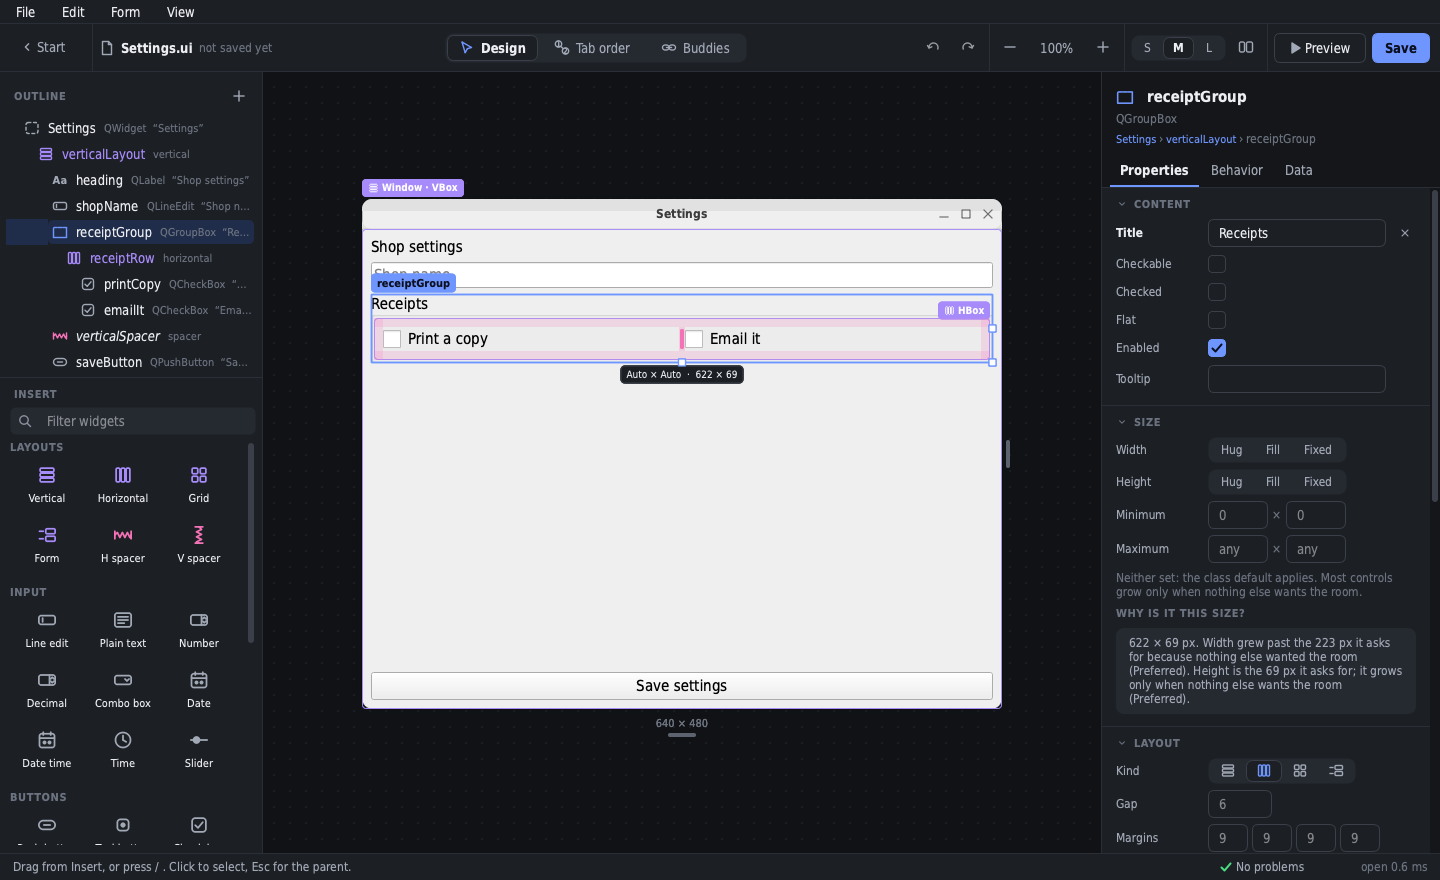
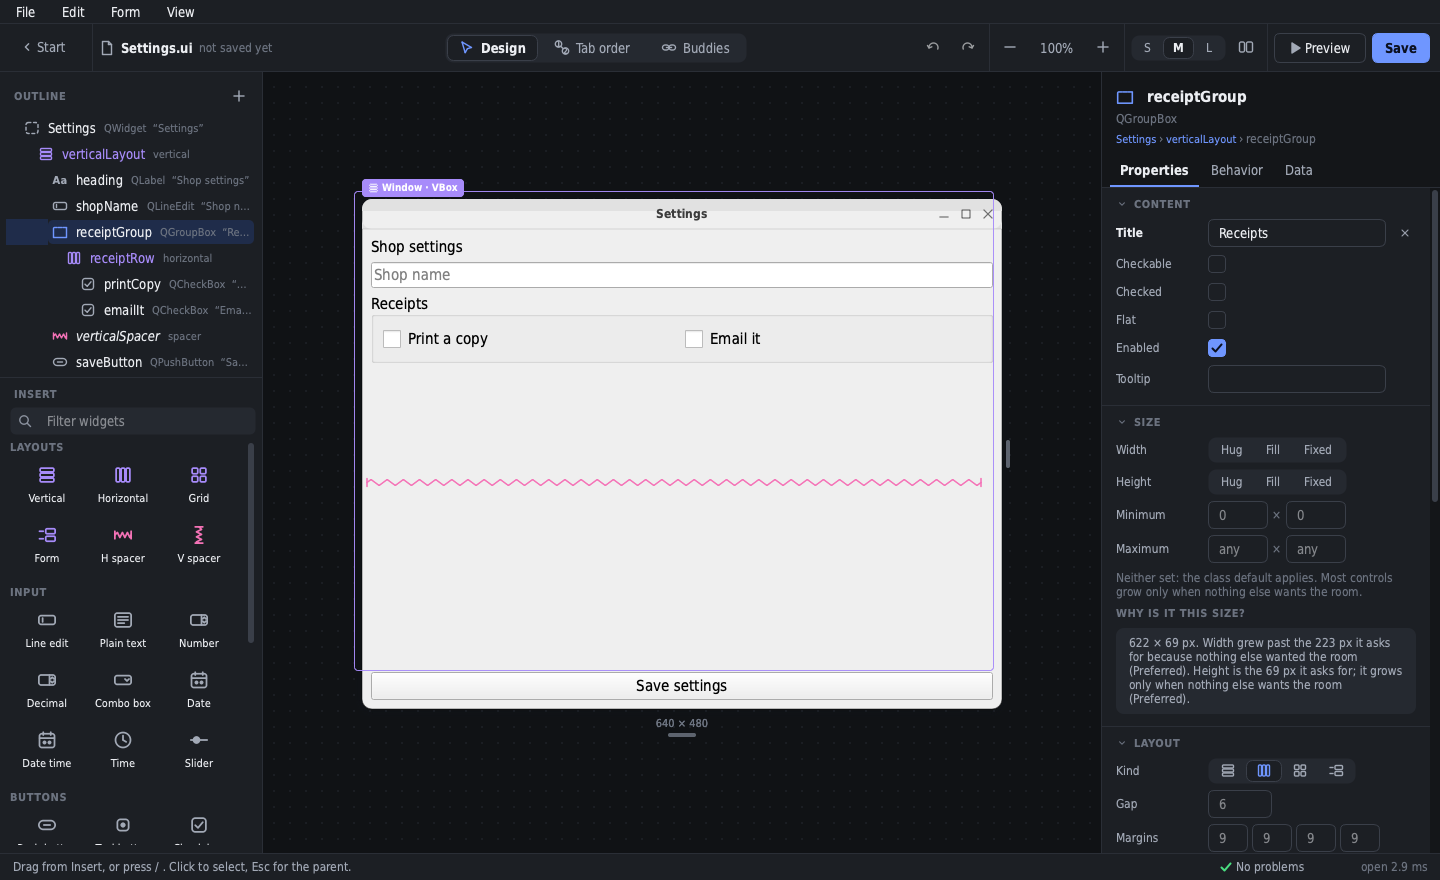
polish(form-builder): second critique pass over the screenshots
Spacers draw as springs, empty containers stay big enough to drop into
(canvas only, not saved), margins hide on empty layouts, enum editors show
words with the Qt key in the tooltip, the why-sentence reads sizes after the
layout pass, replaced forms are freed at once (RSS +5 MB, was +30), and
tests clean their temp folders. New shots: Behavior and Data tabs, empty group.

Changed region(s): [[0.25, 0.3068, 0.6875, 0.4602], [0.6875, 0.3682, 0.7188, 0.3989], [0.25, 0.5216, 0.2812, 0.5523]]

diff --git a/spikes/form_builder/inspector.py b/spikes/form_builder/inspector.py
@@ -224,6 +224,10 @@ class Inspector(QWidget):
         self.path = path
 
     def show_selection(self, ids):
+        from PySide6.QtCore import QCoreApplication, QEvent
+
+        # Sizes in the why-sentence must be the ones after this edit's layout pass.
+        QCoreApplication.sendPostedEvents(None, QEvent.LayoutRequest)
         self.selection = [node_id for node_id in ids if self.doc is not None and find_node(self.doc, node_id) is not None]
         self._remember_focus()
         self._rebuild()
@@ -549,7 +553,8 @@ class Inspector(QWidget):
                 return self._flags_editor(node, prop_name, enum, value)
             combo = QComboBox()
             keys = [enum.key(i) for i in range(enum.keyCount())]
-            combo.addItems(keys)
+            for key in keys:
+                combo.addItem(_human(key), key)
             key = getattr(value, "name", None)
             if key is None:
                 try:
@@ -557,10 +562,13 @@ class Inspector(QWidget):
                 except (TypeError, ValueError):
                     key = None
             if key in keys:
-                combo.setCurrentText(key)
+                combo.setCurrentIndex(keys.index(key))
+            combo.setToolTip(f"{enum.scope()}::{key}" if key else "")
             scope = enum.scope() or widget.metaObject().className()
-            combo.currentTextChanged.connect(
-                lambda text, name=prop_name, scope=scope: self._execute(SetProperty(node.id, name, prop_enum(name, f"{scope}::{text}")))
+            combo.currentIndexChanged.connect(
+                lambda _index, name=prop_name, scope=scope, box=combo: self._execute(
+                    SetProperty(node.id, name, prop_enum(name, f"{scope}::{box.currentData()}"))
+                )
             )
             return combo
         kind = current_prop.body.tag if current_prop is not None else None
@@ -623,12 +631,12 @@ class Inspector(QWidget):
         keys = [enum.key(i) for i in range(enum.keyCount())]
         values = {key: enum.value(i) for i, key in enumerate(keys)}
         chosen = [key for key in keys if values[key] and (number & values[key]) == values[key] and bin(values[key]).count("1") == 1]
-        button.setText(", ".join(_short(key) for key in chosen) or "None")
+        button.setText(", ".join(_human(_short(key)) for key in chosen) or "None")
         menu = QMenu(button)
         for key in keys:
             if bin(values[key]).count("1") != 1:
                 continue
-            action = menu.addAction(_short(key))
+            action = menu.addAction(_human(_short(key)))
             action.setCheckable(True)
             action.setChecked(key in chosen)
             action.toggled.connect(lambda checked, k=key: self._toggle_flag(node, prop_name, scope, chosen, k, checked))
@@ -840,6 +848,9 @@ class Inspector(QWidget):
             facts["h_mode"] = "fill"
         if v_mode == "auto" and policy.verticalPolicy().name in sizing.FILL:
             facts["v_mode"] = "fill"
+        if widget.property("formDesignMin"):
+            facts["min_w"] = facts["min_h"] = 0
+            return sizing.why_sentence(facts) + " The canvas keeps empty containers big enough to drop into; that minimum is not saved."
         return sizing.why_sentence(facts)
 
     # ------------------------------------------------------------------ layout
@@ -925,13 +936,16 @@ class Inspector(QWidget):
         else:
             editor = QComboBox()
             keys = [enum.key(i) for i in range(enum.keyCount())]
-            editor.addItems(keys)
+            for key in keys:
+                editor.addItem(_human(key), key)
             value = qlayout.property(prop_name)
             key = getattr(value, "name", None)
             if key in keys:
-                editor.setCurrentText(key)
+                editor.setCurrentIndex(keys.index(key))
             scope = enum.scope()
-            editor.currentTextChanged.connect(lambda text: self._execute(SetProperty(layout.id, prop_name, prop_enum(prop_name, f"{scope}::{text}"))))
+            editor.currentIndexChanged.connect(
+                lambda _index: self._execute(SetProperty(layout.id, prop_name, prop_enum(prop_name, f"{scope}::{editor.currentData()}")))
+            )
         reset = lambda _checked=False: self._execute(SetProperty(layout.id, prop_name, None))  # noqa: E731
         words = {"fieldGrowthPolicy": "Fields grow", "labelAlignment": "Labels"}
         self._row(grid, words[prop_name], editor, current_prop is not None, reset)
@@ -1379,6 +1393,26 @@ def _node_name(node) -> str:
     if isinstance(node, (Widget, Layout)):
         return node.object_name
     return getattr(node, "name", "")
+
+
+def _human(key: str) -> str:
+    """AllNonFixedFieldsGrow -> All non fixed fields grow. The raw key stays in the data."""
+    special = {"VCenter": "Vertical centre", "HCenter": "Horizontal centre", "Ok": "OK"}
+    if key in special:
+        return special[key]
+    words = []
+    current_word = ""
+    for index, char in enumerate(key):
+        upper_run = index + 1 < len(key) and key[index + 1].isupper()
+        if char.isupper() and current_word and not (current_word[-1].isupper() and upper_run):
+            words.append(current_word)
+            current_word = char
+        else:
+            current_word += char
+    if current_word:
+        words.append(current_word)
+    text = " ".join(word if word.isupper() and len(word) > 1 else word.lower() for word in words)
+    return text[:1].upper() + text[1:]
 
 
 def _short(key: str) -> str:

diff --git a/spikes/form_builder/canvas.py b/spikes/form_builder/canvas.py
@@ -372,6 +372,10 @@ class Overlay(QWidget):
                 p.setFont(font)
                 p.setPen(qcolor(t.layout, 220))
                 p.drawText(fill, Qt.AlignCenter, "Drop widgets here")
+            if self.mode == "design":
+                for item in geo.items:
+                    if item.kind == "spacer":
+                        self._paint_spring(p, t, self.v(item.rect), strong or item.content_id in self.selection)
             if strong:
                 words = LAYOUT_WORDS.get(geo.cls, geo.cls)
                 if geo.cls == "QGridLayout" and geo.cells:
@@ -385,6 +389,32 @@ class Overlay(QWidget):
                     # Top-right: titles and labels sit top-left, so the chip stays out of their way.
                     chip(p, QPointF(rect.right() + 0.5, rect.top() + 1), words, t.layout, "#FFFFFF", align="right", glyph=geo.cls, pixel_size=10)
 
+    def _paint_spring(self, p, t, rect: QRectF, strong: bool):
+        """Spacers are drawn as springs, the way Designer users expect to find them."""
+        horizontal = rect.width() >= rect.height()
+        length = (rect.width() if horizontal else rect.height()) - 8
+        if length < 12:
+            return
+        p.save()
+        p.translate(rect.center())
+        if not horizontal:
+            p.rotate(90)
+        half = length / 2
+        pen = QPen(qcolor(t.gap, 220 if strong else 120), 1.25)
+        pen.setCapStyle(Qt.RoundCap)
+        p.setPen(pen)
+        p.setBrush(Qt.NoBrush)
+        p.drawLine(QPointF(-half, -4), QPointF(-half, 4))
+        p.drawLine(QPointF(half, -4), QPointF(half, 4))
+        path = QPainterPath(QPointF(-half, 0))
+        coils = max(3, min(int(length / 16), 40))
+        step = length / (coils * 2)
+        for index in range(coils * 2):
+            path.lineTo(QPointF(-half + step * (index + 0.5), -3 if index % 2 == 0 else 3))
+        path.lineTo(QPointF(half, 0))
+        p.drawPath(path)
+        p.restore()
+
     def _paint_details(self, p, t, index):
         """Margins and gaps of the selected container, so space is something you can see and drag."""
         if len(self.selection) != 1:
@@ -397,6 +427,8 @@ class Overlay(QWidget):
             self._paint_gap(p, t, gap)
 
     def _paint_margins(self, p, t, geo):
+        if not geo.items:
+            return
         outer = self.v(geo.rect)
         inner = self.v(geo.content)
         bands = [

diff --git a/spikes/form_builder/screenshots_capture.py b/spikes/form_builder/screenshots_capture.py
@@ -196,6 +196,36 @@ def main(only=()) -> None:
         grab(window, "layout-selected.png")
         surface.overlay.gap_hover = None
 
+    if want("inspector-behavior"):
+        window.load_document(demo_box_doc(), None)
+        settle(app)
+        window._select([find(window.doc, "saveButton").id])
+        window.inspector.show_tab("behavior")
+        settle(app)
+        grab(window, "inspector-behavior.png", crop=(SIZE[0] - 520, 0, 520, SIZE[1]))
+        window.inspector.show_tab("data")
+        settle(app)
+        grab(window, "inspector-data.png", crop=(SIZE[0] - 520, 0, 520, SIZE[1]))
+        window.inspector.show_tab("properties")
+
+    if want("empty-group"):
+        from spikes.form_builder.canvas import content_for
+        from spikes.form_builder.catalog import CATALOG
+        from spikes.form_builder.commands import insert_near
+
+        window.load_document(demo_box_doc(), None)
+        settle(app)
+        entry = next(item for item in CATALOG if item.class_name == "QGroupBox")
+        content = content_for(window.doc, entry)
+        window.history.execute(insert_near(window.doc, [find(window.doc, "receiptGroup").id], content))
+        window._select([content.id])
+        settle(app)
+        surface = window.canvas.primary
+        surface.rebuild_index()
+        surface.overlay.hover = find(window.doc, "shopName").id
+        grab(window, "empty-group.png")
+        surface.overlay.hover = None
+
     if want("drag-grid"):
         window.load_document(demo_grid_doc(), None)
         settle(app)

diff --git a/spikes/form_builder/tests/test_ui_logic.py b/spikes/form_builder/tests/test_ui_logic.py
@@ -73,12 +73,12 @@ def _run_generated(doc, host_cls=QWidget):
     from spikes.form_builder.model import form_class_name
 
     code = generate_ui(doc, "form.ui")
-    folder = Path(tempfile.mkdtemp())
-    path = folder / "ui_form.py"
-    path.write_text(code, encoding="utf-8")
-    spec = importlib.util.spec_from_file_location("ui_form_" + str(abs(hash(code))), path)
-    module = importlib.util.module_from_spec(spec)
-    spec.loader.exec_module(module)
+    with tempfile.TemporaryDirectory() as folder:
+        path = Path(folder) / "ui_form.py"
+        path.write_text(code, encoding="utf-8")
+        spec = importlib.util.spec_from_file_location("ui_form_" + str(abs(hash(code))), path)
+        module = importlib.util.module_from_spec(spec)
+        spec.loader.exec_module(module)
     host = host_cls()
     getattr(module, "Ui_" + _py_name(form_class_name(doc)))().setupUi(host)
     return host, code

diff --git a/spikes/form_builder/realize.py b/spikes/form_builder/realize.py
@@ -658,7 +658,9 @@ class Realization:
         if layout is None or layout_items(layout):
             return
         if get_property(node, "minimumSize") is None:
-            widget.setMinimumSize(max(widget.minimumWidth(), 48), max(widget.minimumHeight(), 36))
+            # Canvas only: an empty container stays big enough to drop into. Not saved.
+            tall = 84 if node.class_name in ("QGroupBox", "QTabWidget") else 60
+            widget.setMinimumSize(max(widget.minimumWidth(), 140), max(widget.minimumHeight(), tall))
             widget.setProperty("formDesignMin", True)
 
     def _design_min_reset(self, host: QWidget, layout: Layout) -> None:

diff --git a/spikes/form_builder/tests/test_perf.py b/spikes/form_builder/tests/test_perf.py
@@ -78,6 +78,9 @@ class PerfBudgetTest(unittest.TestCase):
             window._write(str(target))
             saves.append((time.perf_counter() - started) * 1000)
 
+        import shutil
+
+        shutil.rmtree(folder, ignore_errors=True)
         numbers = {
             "widgets": widget_count,
             "open_ms": opens,
